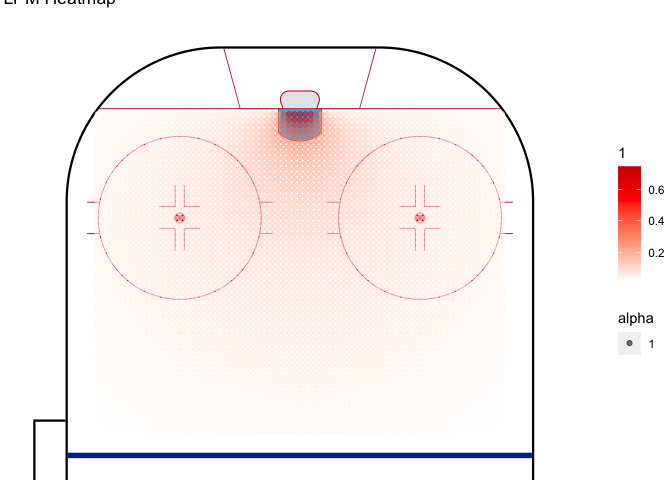
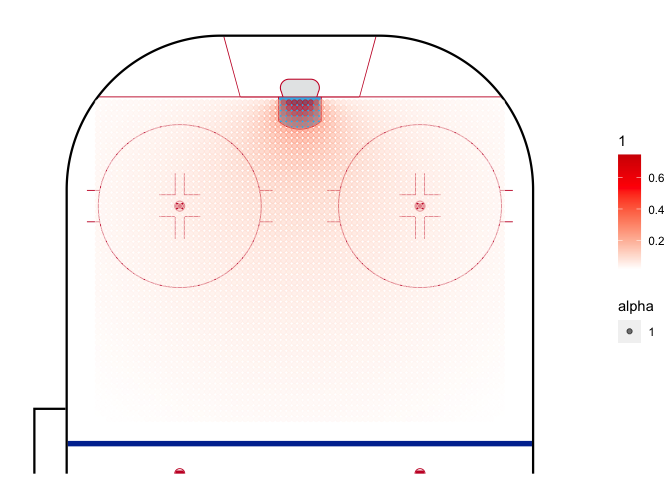
Fixing heatmaps

diff --git a/NHL_xG.html b/NHL_xG.html
@@ -406,7 +406,8 @@ LPM_manual &lt;- LPM_intercept + LPM_distance * shots$distance + LPM_angle * sho
 <p>In the plot below, the the main downside of LPM model becomes
 apparent: results are not bound [0,1].</p>
 <pre class="r"><code>ggplot(data = LPM, mapping=aes(x=angle, y = goal)) +
-  geom_point() + geom_smooth(method = &quot;lm&quot;, se = F)</code></pre>
+  geom_point() + geom_smooth(method = &quot;lm&quot;, se = F) +
+  theme_bw()</code></pre>
 <p><img src="NHL_xG_files/figure-html/LPM%20Plot-1.png" /><!-- --></p>
 <p>Because of this and various other reasons, logit is used.</p>
 <pre class="r"><code>logit &lt;- glm(goal ~ distance + angle,
@@ -472,8 +473,7 @@ artificial_shots$xg &lt;- LPM_intercept + distance(artificial_shots$location_x,a
 geom_hockey(league = &quot;NHL&quot;, rotation = 90, display_range = &quot;ozone&quot;) +
   geom_point(aes(x = artificial_shots$location_y, y = artificial_shots$location_x, col = artificial_shots$xg, alpha = 1)) +
   scale_color_gradient2(low = &quot;white&quot;, mid=&quot;red&quot;, midpoint = 0.55, high =&quot;darkred&quot;,
-                       scales::rescale(c(0.9,0.1))) +
-                       ggtitle(&quot;LPM Heatmap&quot;)</code></pre>
+                       scales::rescale(c(0.9,0.1)))</code></pre>
 <p><img
 src="NHL_xG_files/figure-html/Heatmap%20LPM-1.png" /><!-- --></p>
 <pre class="r"><code>artificial_shots &lt;- crossing(location_x = seq(30, 88, by = 1), location_y = seq(-37, 37, by = 1))
@@ -486,8 +486,7 @@ artificial_shots$xg_logit &lt;- 1 / (1 + exp(-logit_intercept - distance(artific
 geom_hockey(league = &quot;NHL&quot;, rotation = 90, display_range = &quot;ozone&quot;) +
   geom_point(aes(x = artificial_shots$location_y, y = artificial_shots$location_x, col = artificial_shots$xg_logit, alpha = 0.1)) +
   scale_color_gradient(low = &quot;white&quot;, high =&quot;red&quot;,
-                       scales::rescale(c(0.1,0.9))) + 
-                        ggtitle(&quot;Heatmap Logit&quot;)</code></pre>
+                       scales::rescale(c(0.1,0.9))) </code></pre>
 <p><img
 src="NHL_xG_files/figure-html/Heatmap%20logit-1.png" /><!-- --></p>
 </div>

diff --git a/NHL_xG.md b/NHL_xG.md
@@ -255,7 +255,8 @@ In the plot below, the the main downside of LPM model becomes apparent: results 
 
 ```r
 ggplot(data = LPM, mapping=aes(x=angle, y = goal)) +
-  geom_point() + geom_smooth(method = "lm", se = F)
+  geom_point() + geom_smooth(method = "lm", se = F) +
+  theme_bw()
 ```
 
 ![](NHL_xG_files/figure-html/LPM Plot-1.png)<!-- -->
@@ -341,8 +342,7 @@ artificial_shots$xg <- LPM_intercept + distance(artificial_shots$location_x,arti
 geom_hockey(league = "NHL", rotation = 90, display_range = "ozone") +
   geom_point(aes(x = artificial_shots$location_y, y = artificial_shots$location_x, col = artificial_shots$xg, alpha = 1)) +
   scale_color_gradient2(low = "white", mid="red", midpoint = 0.55, high ="darkred",
-                       scales::rescale(c(0.9,0.1))) +
-                       ggtitle("LPM Heatmap")
+                       scales::rescale(c(0.9,0.1)))
 ```
 
 ![](NHL_xG_files/figure-html/Heatmap LPM-1.png)<!-- -->
@@ -360,8 +360,7 @@ artificial_shots$xg_logit <- 1 / (1 + exp(-logit_intercept - distance(artificial
 geom_hockey(league = "NHL", rotation = 90, display_range = "ozone") +
   geom_point(aes(x = artificial_shots$location_y, y = artificial_shots$location_x, col = artificial_shots$xg_logit, alpha = 0.1)) +
   scale_color_gradient(low = "white", high ="red",
-                       scales::rescale(c(0.1,0.9))) + 
-                        ggtitle("Heatmap Logit")
+                       scales::rescale(c(0.1,0.9))) 
 ```
 
 ![](NHL_xG_files/figure-html/Heatmap logit-1.png)<!-- -->
